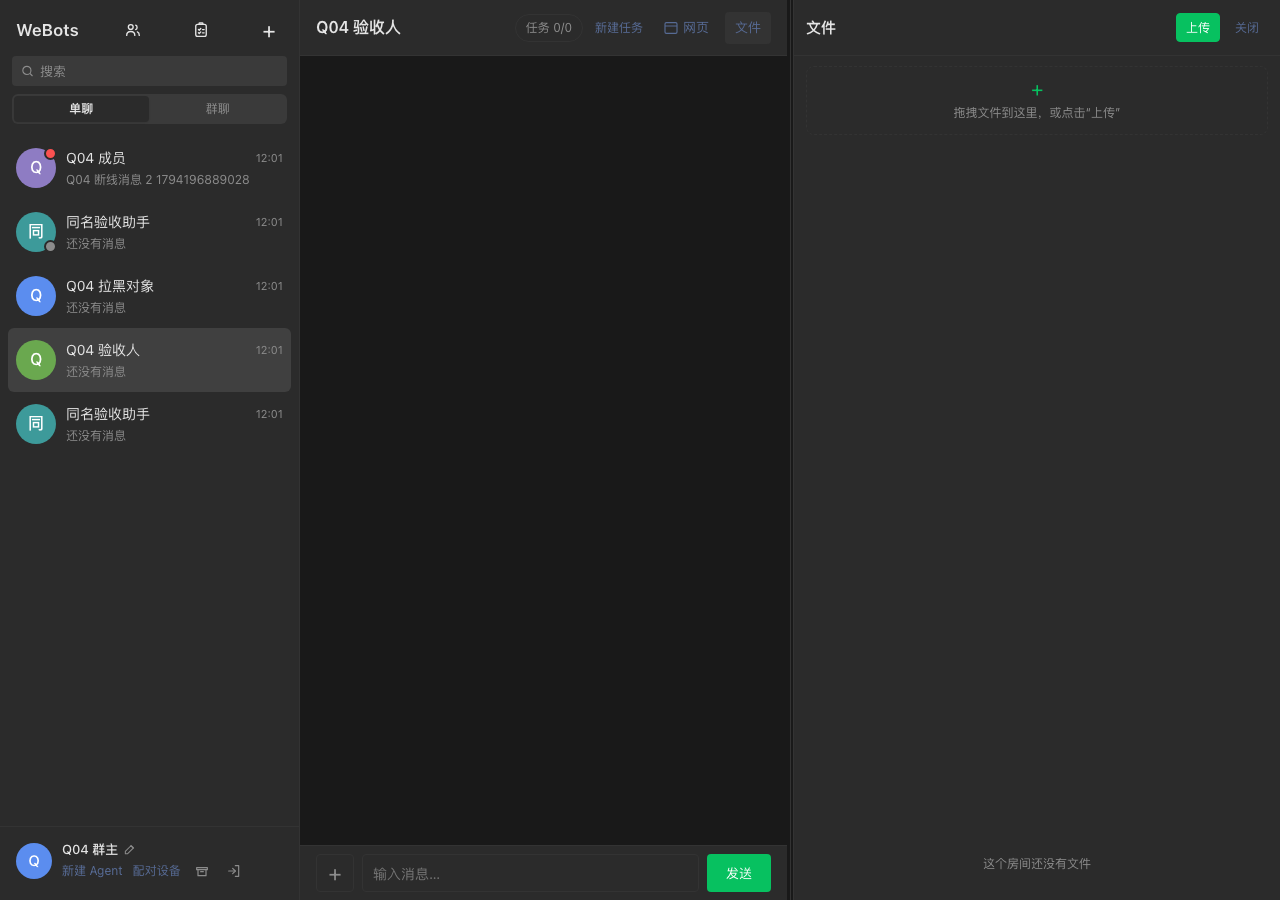
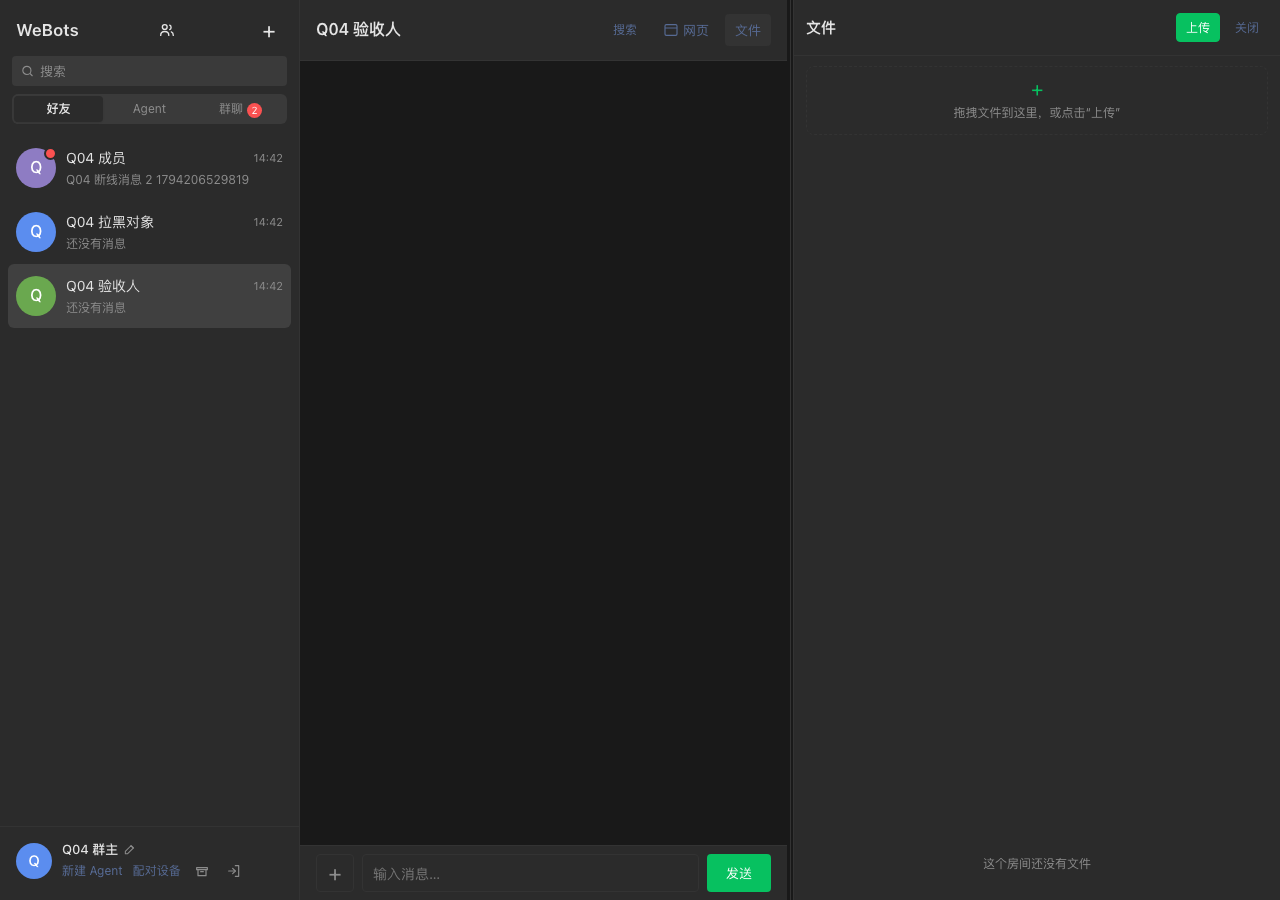
feat(web): 默认隐藏全部任务 UI

diff --git a/src/web/chat-tasks-script.ts b/src/web/chat-tasks-script.ts
@@ -13,8 +13,9 @@ const taskListElement = document.getElementById('task-list');
 const taskEmptyElement = document.getElementById('task-popover-empty');
 const taskCloseElement = document.getElementById('task-popover-close');
 const taskCreateButton = document.getElementById('task-create');
-// 用户暂缓任务创建 UI：保留后端任务能力与已有任务查看，隐藏“转为任务/新建任务”入口。
-const TASK_CREATION_UI_ENABLED = false;
+// 用户暂缓任务 UI：生产默认隐藏全部任务入口/面板；测试宿主显式设置 window.__TASK_UI_ENABLED=true。
+const TASK_UI_ENABLED = window.__TASK_UI_ENABLED === true;
+const TASK_CREATION_UI_ENABLED = TASK_UI_ENABLED;
 const taskCreateModal = document.getElementById('task-create-modal');
 const taskCreateForm = document.getElementById('task-create-form');
 const taskSourceHint = document.getElementById('task-source-hint');
@@ -37,6 +38,8 @@ const myTasksModal = document.getElementById('my-tasks-modal');
 const myTasksListElement = document.getElementById('my-tasks-list');
 const myTasksEmptyElement = document.getElementById('my-tasks-empty');
 const myTasksClose = document.getElementById('my-tasks-close');
+// 服务端 HTML 默认带 hidden；测试宿主显式开启时，首页也要立即可见。
+if (myTasksButton) myTasksButton.hidden = !TASK_UI_ENABLED;
 const TASK_STATUS_LABELS = {
   unassigned: '待领取',
   offered: '待接手',
@@ -200,12 +203,14 @@ function renderTaskList() {
 }
 
 function renderTaskRow() {
-  const visible = Boolean(
+  const visible = TASK_UI_ENABLED && Boolean(
     taskToggleElement &&
       activeRoomId &&
       (taskCanCreate() || (roomTasksRoomId === activeRoomId && roomTasks.length > 0))
   );
   if (taskToggleElement) taskToggleElement.hidden = !visible;
+  if (myTasksButton) myTasksButton.hidden = !TASK_UI_ENABLED;
+  if (!TASK_UI_ENABLED && taskPopoverElement) taskPopoverElement.hidden = true;
   if (taskToggleLabelElement) {
     const counts = activeRoomId ? taskSummary.get(activeRoomId) : null;
     taskToggleLabelElement.textContent = counts
@@ -220,6 +225,7 @@ function renderTaskRow() {
 }
 
 function openTaskPopover(pin) {
+  if (!TASK_UI_ENABLED) return;
   if (
     !taskToggleElement ||
     !taskPopoverElement ||
@@ -298,6 +304,7 @@ function applyTaskSummary(result) {
 }
 
 async function loadTaskSummary() {
+  if (!TASK_UI_ENABLED) return;
   const result = await callTool('network_task_summary', {});
   applyTaskSummary(result);
 }
@@ -311,6 +318,7 @@ function scheduleTaskSummaryRefresh() {
 }
 
 async function loadRoomTasks(roomId, epoch) {
+  if (!TASK_UI_ENABLED) return;
   const seq = ++roomTaskLoadSeq;
   try {
     const result = await callTool(
@@ -644,6 +652,7 @@ function renderTaskDetailActions(task) {
 }
 
 async function openTaskDetail(taskId) {
+  if (!TASK_UI_ENABLED) return;
   const seq = ++taskDetailLoadSeq;
   const result = await callTool('network_task_get', { task_id: taskId });
   if (seq !== taskDetailLoadSeq) return;
@@ -689,7 +698,7 @@ function suggestedTaskTitle(sourceMessageId) {
 }
 
 function openTaskCreate(options) {
-  if (!TASK_CREATION_UI_ENABLED || !activeRoomId || !taskCanCreate() || !taskCreateModal) return;
+  if (!TASK_UI_ENABLED || !activeRoomId || !taskCanCreate() || !taskCreateModal) return;
   const settings = options || {};
   taskCreateSourceId = settings.sourceMessageId || null;
   taskCreateParentId = settings.parentTaskId || null;
@@ -793,7 +802,7 @@ function appendMyTaskRow(task) {
 }
 
 async function loadMyTasks() {
-  if (!myTasksModal || myTasksModal.hidden) return;
+  if (!TASK_UI_ENABLED || !myTasksModal || myTasksModal.hidden) return;
   const seq = ++myTasksLoadSeq;
   try {
     const result = await callTool('network_task_list', { scope: 'mine', limit: 100 });
@@ -812,7 +821,7 @@ async function loadMyTasks() {
 }
 
 function openMyTasks() {
-  if (!myTasksModal) return;
+  if (!TASK_UI_ENABLED || !myTasksModal) return;
   myTasksModal.hidden = false;
   if (myTasksEmptyElement) {
     myTasksEmptyElement.textContent = '正在读取…';
@@ -836,7 +845,7 @@ function scheduleMyTasksRefresh() {
 }
 
 function taskConvertButton(messageId, preview) {
-  if (!TASK_CREATION_UI_ENABLED) return null;
+  if (!TASK_UI_ENABLED) return null;
   const button = document.createElement('button');
   button.type = 'button';
   button.className = 'msg-task-convert';
@@ -851,7 +860,7 @@ function taskConvertButton(messageId, preview) {
 }
 
 function syncTaskCardMarkers(container) {
-  if (!container) return;
+  if (!container || !TASK_UI_ENABLED) return;
   if (container === messagesElement) updateMessagesLengthClass();
   const canCreate = TASK_CREATION_UI_ENABLED && taskCanCreate();
   // 没有任务且当前用户不能创建任务时，消息槽保持隐藏，无需遍历。

diff --git a/scripts/verify-web.ts b/scripts/verify-web.ts
@@ -349,6 +349,7 @@ export async function makeContext(
 ): Promise<{ context: BrowserContext; page: Page }> {
   const context = await browser.newContext({ viewport, ...contextOptions });
   await context.addInitScript({ content: initScript(token, seedTokenOnce) });
+  await context.addInitScript({ content: 'window.__TASK_UI_ENABLED = true;' });
   const page = await context.newPage();
   page.setDefaultTimeout(15_000);
   const recordError = (message: string): void => {
@@ -10871,7 +10872,7 @@ async function main(): Promise<void> {
       await context.close();
     }
 
-    // 2b-4b. 任务创建 UI 已撤下：消息不显示“转为任务”，群头部不显示“新建任务”。
+    // 2b-4b. 任务 UI 默认整体隐藏：消息不显示“转为任务”，群头部不显示任务入口。
     {
       const convertGroup = await rawTool<RoomDetail>(data.humanToken, 'network_room_create', {
         request_id: requestId('room'),
@@ -10883,21 +10884,30 @@ async function main(): Promise<void> {
       await acceptRoomInvites(data.agentAToken, convertRoomId);
       await sendRoomMessage(data.humanToken, convertRoomId, '人类任务来源消息');
       await sendRoomMessage(data.agentAToken, convertRoomId, 'Agent 任务来源消息');
-      const { context, page } = await makeContext(
-        browser,
+      // 默认（生产）上下文不设置 window.__TASK_UI_ENABLED，整个任务 UI 必须隐藏。
+      const hiddenContext = await browser.newContext({ viewport: { width: 1280, height: 800 } });
+      await hiddenContext.addInitScript(
+        (token: string) => localStorage.setItem('agent-network-token', token),
         data.humanToken,
-        { width: 1280, height: 800 },
-        allErrors,
       );
-      await page.goto(`${server.base}/c/${convertRoomId}`);
-      await waitRoom(page, convertRoomId, '任务入口可见性群');
-      checkEqual('群头部不显示新建任务', await page.locator('#task-create').isVisible(), false);
+      const hiddenPage = await hiddenContext.newPage();
+      hiddenPage.setDefaultTimeout(15_000);
+      await hiddenPage.goto(`${server.base}/c/${convertRoomId}`);
+      await waitRoom(hiddenPage, convertRoomId, '任务入口可见性群');
+      checkEqual('默认隐藏新建任务', await hiddenPage.locator('#task-create').isVisible(), false);
       checkEqual(
         '消息不显示转为任务入口',
-        await page.locator('#messages .msg-task-convert').count(),
+        await hiddenPage.locator('#messages .msg-task-convert').count(),
         0,
       );
-      await context.close();
+      checkEqual('默认隐藏任务切换', await hiddenPage.locator('#task-toggle').isVisible(), false);
+      checkEqual('默认隐藏我的任务', await hiddenPage.locator('#my-tasks').isVisible(), false);
+      checkEqual(
+        '默认不渲染任务卡片',
+        await hiddenPage.locator('#messages .msg-task-slot:not([hidden])').count(),
+        0,
+      );
+      await hiddenContext.close();
     }
 
     // 2b-5. G03 群角色界面：owner 任免管理员、管理员操作入口与公告读写。

diff --git a/scripts/lib/q04-tasks.ts b/scripts/lib/q04-tasks.ts
@@ -133,6 +133,35 @@ async function acceptTaskViaApi(
   });
 }
 
+export async function runTaskUiHiddenAcceptance(state: Q04State, browser: Browser): Promise<void> {
+  console.log('· Q04 任务 UI 已按产品决定整体隐藏');
+  const { context, page } = await makeContext(
+    browser,
+    state.tokens.u1,
+    { width: 1280, height: 900 },
+    [],
+  );
+  try {
+    await page.goto(`${state.base}/c/${state.rooms.main}`);
+    await waitRoom(page, state.rooms.main, 'Q04 主验收群');
+    checkEqual('Q04 任务切换隐藏', await page.locator('#task-toggle').isVisible(), false);
+    checkEqual('Q04 我的任务隐藏', await page.locator('#my-tasks').isVisible(), false);
+    checkEqual('Q04 新建任务隐藏', await page.locator('#task-create').isVisible(), false);
+    checkEqual(
+      'Q04 转为任务隐藏',
+      await page.locator('#messages .msg-task-convert').count(),
+      0,
+    );
+    checkEqual(
+      'Q04 任务卡片隐藏',
+      await page.locator('#messages .msg-task-card:visible, #messages .msg-task-link:visible').count(),
+      0,
+    );
+  } finally {
+    await context.close();
+  }
+}
+
 export async function runTaskAcceptance(state: Q04State, browser: Browser): Promise<void> {
   console.log('· Q04 任务：消息转任务、接受、进度、交接、提交、退回、验收');
   const creatorContext = await makeContext(

diff --git a/scripts/verify-q04.ts b/scripts/verify-q04.ts
@@ -13,7 +13,7 @@ import { checksPassed } from './lib/harness';
 import { setupQ04Fixture } from './lib/q04-fixture';
 import { runContactAcceptance, runGroupFinaleAcceptance, runGroupSetupAcceptance } from './lib/q04-groups';
 import { runChatAcceptance } from './lib/q04-chat';
-import { runTaskAcceptance } from './lib/q04-tasks';
+import { runTaskUiHiddenAcceptance } from './lib/q04-tasks';
 import { runAgentAcceptance } from './lib/q04-agents';
 import { runResponsiveAcceptance } from './lib/q04-responsive';
 import { runIdentityAcceptance } from './lib/q04-identity';
@@ -39,7 +39,7 @@ async function main(): Promise<void> {
       await runContactAcceptance(state, browser);
       await runGroupSetupAcceptance(state, browser);
       await runChatAcceptance(state, browser);
-      await runTaskAcceptance(state, browser);
+      await runTaskUiHiddenAcceptance(state, browser);
       await runAgentAcceptance(state, browser);
       await runResponsiveAcceptance(state, browser);
       await runGroupFinaleAcceptance(state, browser);

diff --git a/src/web/chat-panels.ts b/src/web/chat-panels.ts
@@ -23,7 +23,7 @@ export function sidebarPane(): string {
         </svg>
         <span class="request-badge" id="contact-requests-badge" hidden>0</span>
       </button>
-      <button class="icon-btn" id="my-tasks" type="button" aria-label="我的任务" title="我的任务">
+      <button class="icon-btn" id="my-tasks" type="button" aria-label="我的任务" title="我的任务" hidden>
         <svg viewBox="0 0 24 24" aria-hidden="true" focusable="false">
           <rect x="5" y="4.5" width="14" height="16" rx="2.5"></rect>
           <path d="M9.5 4.5V3.3c0-.4.3-.7.7-.7h3.6c.4 0 .7.3.7.7v1.2"></path>

diff --git a/src/web/chat-styles.ts b/src/web/chat-styles.ts
@@ -76,6 +76,7 @@ export const APP_STYLE = `
     background: transparent; color: var(--wx-text); font-size: 22px; line-height: 1;
     display: grid; place-items: center; }
   .icon-btn:hover { background: var(--wx-hover); }
+  .icon-btn[hidden] { display: none; }
   .icon-btn svg { width: 18px; height: 18px; display: block; fill: none;
     stroke: currentColor; stroke-width: 1.8; stroke-linecap: round; stroke-linejoin: round; }
   .search-box { position: relative; display: block; }

diff --git a/reports/TASK-UI-HIDDEN.md b/reports/TASK-UI-HIDDEN.md
@@ -1,24 +1,48 @@
-# 暂停任务创建 UI
+# 默认隐藏全部任务 UI
 
 状态：READY_FOR_REVIEW
 
-## 变更
+## 产品决定
 
-- 新增 Web 端开关 `TASK_CREATION_UI_ENABLED = false`。
-- 隐藏群头部“新建任务”按钮与创建任务表单入口。
-- 消息不再生成“转为任务”按钮；已有任务卡片/来源任务链接仍正常显示。
-- 保留“我的任务”列表、任务详情、接受/进度/阻塞/转交/提交/验收/取消/重试/交接包等查看与操作。
-- 后端 `network_task_*` 工具、任务状态机、迁移与事件不变。
+- 生产默认隐藏全部任务相关 UI，而不是只隐藏“新建任务”。
+- `TASK_UI_ENABLED = window.__TASK_UI_ENABLED === true`，默认 `false`；`TASK_CREATION_UI_ENABLED` 与总开关一致。
+- 后端 `network_task_*` 工具、任务状态机、迁移与事件保留，未修改数据库 schema。
 
-## 验证
+## 隐藏的入口与面板
+
+- 群头部任务入口 `#task-toggle` 与房间任务浮层 `#task-popover`。
+- 侧栏“我的任务” `#my-tasks` 与“我的任务”弹窗 `#my-tasks-modal`。
+- “新建任务” `#task-create` 与创建弹窗 `#task-create-modal`。
+- 消息“转为任务”入口 `.msg-task-convert`。
+- 消息任务卡片与来源链接（`.msg-task-slot` 内的 `.msg-task-card` / `.msg-task-link`）。
+- 任务详情 `#task-detail-modal`、提交成果 `#task-submit-modal`、验收通过 `#task-review-modal`；入口统一经 `openTaskDetail` 门控，关闭时无法打开。
+
+## 实现要点
+
+- `renderTaskRow()` 在开关关闭时同步隐藏 `#task-toggle`、`#my-tasks` 与任务浮层。
+- `#my-tasks` 在服务端 HTML 上默认带 `hidden`，任务脚本初始化时按开关同步，避免首页尚未打开房间、`renderTaskRow()` 未运行时状态遗漏。
+- `.icon-btn[hidden] { display: none; }`：`.icon-btn` 的 author 级 `display: grid` 会覆盖浏览器对 `[hidden]` 的 `display: none`，这是“我的任务按钮仍可见”的根因。
+- 关闭时 `openTaskPopover`、`openTaskDetail`、`openMyTasks`、`openTaskCreate`、`loadTaskSummary`、`loadRoomTasks`、`loadMyTasks`、`syncTaskCardMarkers`、`taskConvertButton` 直接返回。
+- `window.__TASK_UI_ENABLED = true` 只用于测试宿主（`scripts/verify-web.ts` 的 `makeContext`），生产页面不设置。
+
+## 门禁结果
 
 - `bun run typecheck`：通过
-- `bun scripts/verify-q04.ts`：175 项通过（Q04 改为 MCP 建任务后验证 UI）
-- `bun run test:web`：2212 项通过
+- `bun scripts/verify-q04.ts`：Q04 PASS checks=146
+- `bun run test:web`：2215 项通过
 - `bun run test:ux`：8 套件通过
 - `bun scripts/verify-isolated.ts protocol`：1003 项通过
+- `git diff --check`：无输出
+
+## 测试与证据
+
+- Q04 改为 `runTaskUiHiddenAcceptance`：默认页面断言 `#task-toggle`、`#my-tasks`、`#task-create` 隐藏，`.msg-task-convert` 计数为 0，可见任务卡片为 0。
+- `verify-web.ts` 的 `makeContext` 注入 `window.__TASK_UI_ENABLED = true`，旧任务 UI 用例继续覆盖；新增默认上下文断言全部任务入口隐藏。
+- `reports/evidence/q04` 中由本次运行重新生成的截图已更新；历史任务验收截图不属于当前 UI，已还原、未纳入本次提交。
+- 旧 `runTaskAcceptance` 保留，当前未由 `verify-q04.ts` 调用，供恢复任务 UI 时复用。
 
 ## 限制
 
-- 这是临时产品开关；恢复时把 `TASK_CREATION_UI_ENABLED` 改回 `true` 并恢复测试。
-- “我的任务”面板仍显示；若连任务查看 UI 也要撤下，需要另行确认。
+- 这是产品级默认隐藏，不是权限收紧；直接调用 MCP `network_task_*` 仍然可用。
+- 恢复 UI 时需要生产宿主设置 `window.__TASK_UI_ENABLED = true`（或调整默认值），并恢复 Q04 对 `runTaskAcceptance` 的调用。
+- 会话列表加载仍会调用一次 `network_task_summary` 维护内部 summary 状态，不渲染任何可见任务 UI，也不额外轮询。
